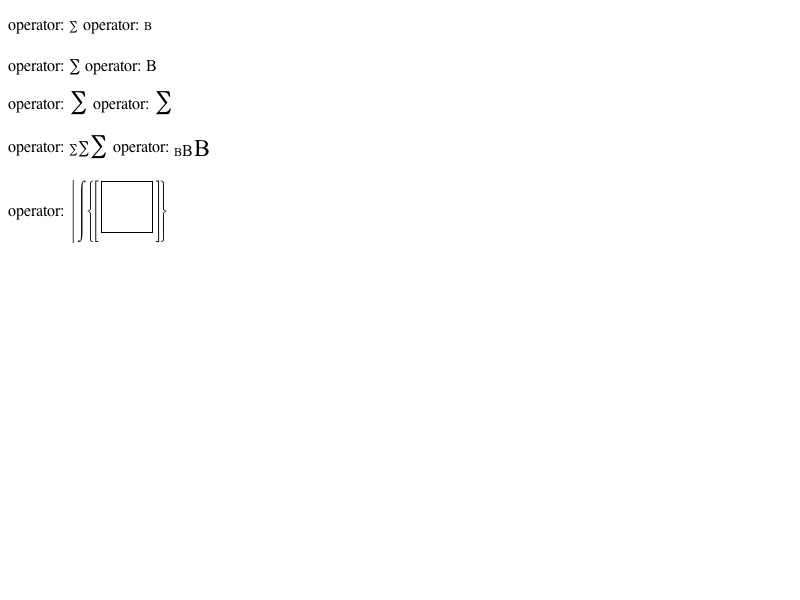
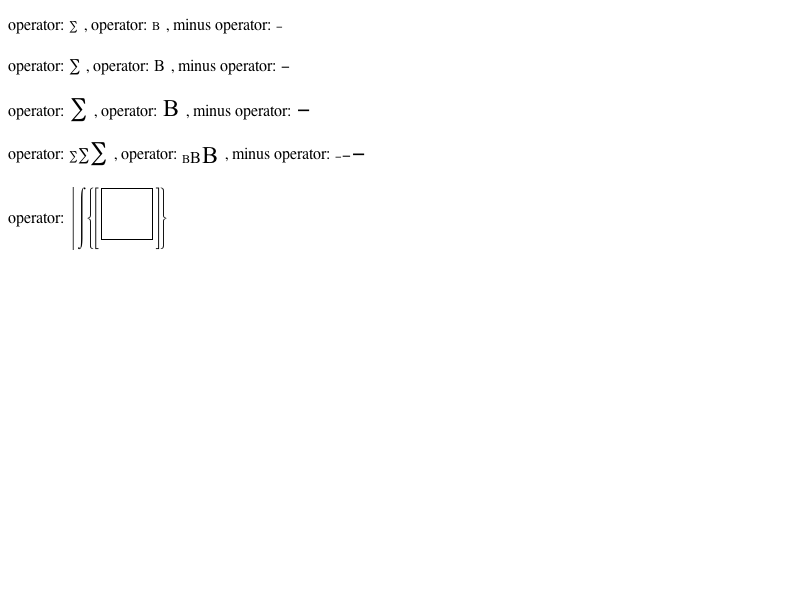
2010-09-02  François Sausset  <sausset@gmail.com>
Reviewed by Darin Adler.

        MathML mo element should render "hyphen-minus" as "minus sign" (Unicode glyph names).
        https://bugs.webkit.org/show_bug.cgi?id=43629

        * mathml/presentation/mo.xhtml:
        * platform/mac/mathml/presentation/mo-expected.checksum:
        * platform/mac/mathml/presentation/mo-expected.png:
        * platform/mac/mathml/presentation/mo-expected.txt:
2010-09-02  François Sausset  <sausset@gmail.com>

        Reviewed by Darin Adler.

        MathML mo element should render "hyphen-minus" as "minus sign" (Unicode glyph names).
        https://bugs.webkit.org/show_bug.cgi?id=43629

        Test: mathml/presentation/mo.xhtml

        * mathml/RenderMathMLOperator.cpp:
        (WebCore::RenderMathMLOperator::RenderMathMLOperator):
        (WebCore::RenderMathMLOperator::updateFromElement):
        * mathml/RenderMathMLOperator.h:
        (WebCore::convertHyphenMinusToMinusSign):
        * platform/text/CharacterNames.h:

git-svn-id: https://svn.webkit.org/repository/webkit/trunk@66708 268f45cc-cd09-0410-ab3c-d52691b4dbfc

diff --git a/WebCore/mathml/RenderMathMLOperator.cpp b/WebCore/mathml/RenderMathMLOperator.cpp
@@ -1,5 +1,6 @@
 /*
  * Copyright (C) 2010 Alex Milowski (alex@milowski.com). All rights reserved.
+ * Copyright (C) 2010 François Sausset (sausset@gmail.com). All rights reserved.
  *
  * Redistribution and use in source and binary forms, with or without
  * modification, are permitted provided that the following conditions
@@ -47,7 +48,7 @@ RenderMathMLOperator::RenderMathMLOperator(Node* container)
 RenderMathMLOperator::RenderMathMLOperator(Node* container, UChar operatorChar)
     : RenderMathMLBlock(container)
     , m_stretchHeight(0)
-    , m_operator(operatorChar)
+    , m_operator(convertHyphenMinusToMinusSign(operatorChar))
 {
 }
 
@@ -217,7 +218,7 @@ void RenderMathMLOperator::updateFromElement()
             text = new (renderArena()) RenderText(node(), StringImpl::create(&m_operator, 1));
         else if (node()->nodeType() == Node::ELEMENT_NODE)
             if (Element* mo = static_cast<Element*>(node()))
-                text = new (renderArena()) RenderText(node(), StringImpl::create(mo->textContent().characters(), mo->textContent().length()));
+                text = new (renderArena()) RenderText(node(), mo->textContent().replace(hyphenMinus, minusSign).impl());
         // If we can't figure out the text, leave it blank.
         if (text) {
             RefPtr<RenderStyle> textStyle = RenderStyle::create();

diff --git a/WebCore/mathml/RenderMathMLOperator.h b/WebCore/mathml/RenderMathMLOperator.h
@@ -28,6 +28,7 @@
 
 #if ENABLE(MATHML)
 
+#include "CharacterNames.h"
 #include "RenderMathMLBlock.h"
 
 namespace WebCore {
@@ -65,9 +66,17 @@ inline const RenderMathMLOperator* toRenderMathMLOperator(const RenderMathMLBloc
     ASSERT(!block || block->isRenderMathMLOperator());
     return static_cast<const RenderMathMLOperator*>(block);
 }
+
+inline UChar convertHyphenMinusToMinusSign(UChar glyph)
+{
+    // When rendered as a mathematical operator, minus glyph should be larger.
+    if (glyph == hyphenMinus)
+        return minusSign;
     
+    return glyph;
 }
 
+}
 
 #endif // ENABLE(MATHML)
 #endif // RenderMathMLOperator_h

diff --git a/WebCore/platform/text/CharacterNames.h b/WebCore/platform/text/CharacterNames.h
@@ -52,6 +52,7 @@ const UChar leftSingleQuotationMark = 0x2018;
 const UChar leftToRightEmbed = 0x202A;
 const UChar leftToRightMark = 0x200E;
 const UChar leftToRightOverride = 0x202D;
+const UChar minusSign = 0x2212;
 const UChar newlineCharacter = 0x000A;
 const UChar noBreakSpace = 0x00A0;
 const UChar objectReplacementCharacter = 0xFFFC;
